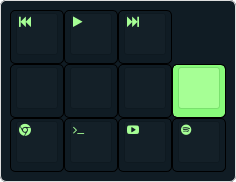
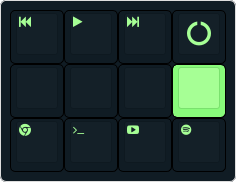
Readme.

diff --git a/README.md b/README.md
@@ -1,6 +1,21 @@
 # SdraKb00
-11 keys custom mechanical keyboard.
+
+11 keys custom mechanical keyboard with rotary encoder.
+
+## Features
+
+- 11 keys
+- rotary encoder
+- AtMega32U4 MCU
+- Per-key RGB led for backlighting
+- USB-C connector
+- On PCB SPI header
+- MCU reset button
 
 ## Layout
 
-[![layout](/img/sdrakb00_layout.png)](http://www.keyboard-layout-editor.com/##@_backcolor=%23101C24&name=SdraKb00&author=drabaioli&switchMount=cherry&switchBrand=gateron&switchType=KS-3-Red&plate:true&pcb:false%3B&@_c=%23101C24&t=%2388FB7A%3B&=%3Ci%20class%2F='fa%20fa-fast-backward'%3E%3C%2F%2Fi%3E&=%3Ci%20class%2F='fa%20fa-play'%3E%3C%2F%2Fi%3E&=%3Ci%20class%2F='fa%20fa-fast-forward'%3E%3C%2F%2Fi%3E%3B&@_a:7%3B&=&=&=&_c=%2388FB7A&t=%23101C24%3B&=%3B&@_c=%23101C24&t=%2388FB7A&a:4%3B&=%3Ci%20class%2F='fa%20fa-chrome'%3E%3C%2F%2Fi%3E&=%3Ci%20class%2F='fa%20fa-terminal'%3E%3C%2F%2Fi%3E&=%3Ci%20class%2F='fa%20fa-youtube-play'%3E%3C%2F%2Fi%3E&=%3Ci%20class%2F='fa%20fa-spotify'%3E%3C%2F%2Fi%3E)
+[![layout](/img/sdrakb00_layout.png)](http://www.keyboard-layout-editor.com/##@_backcolor=%23101C24&name=SdraKb00&author=drabaioli&switchMount=cherry&switchBrand=gateron&switchType=KS-3-Red&plate:true&pcb:false%3B&@_c=%23101C24&t=%2388FB7A%3B&=%3Ci%20class%2F='fa%20fa-fast-backward'%3E%3C%2F%2Fi%3E&=%3Ci%20class%2F='fa%20fa-play'%3E%3C%2F%2Fi%3E&=%3Ci%20class%2F='fa%20fa-fast-forward'%3E%3C%2F%2Fi%3E&_a:7&f:9%3B&=%3Ci%20class%2F='fa%20fa-circle-o-notch'%3E%3C%2F%2Fi%3E%3B&@_f:3%3B&=&=&=&_c=%2388FB7A&t=%23101C24%3B&=%3B&@_c=%23101C24&t=%2388FB7A&a:4%3B&=%3Ci%20class%2F='fa%20fa-chrome'%3E%3C%2F%2Fi%3E&=%3Ci%20class%2F='fa%20fa-terminal'%3E%3C%2F%2Fi%3E&=%3Ci%20class%2F='fa%20fa-youtube-play'%3E%3C%2F%2Fi%3E&=%3Ci%20class%2F='fa%20fa-spotify'%3E%3C%2F%2Fi%3E)
+
+## Schematic
+
+![schematic](/img/schematic.png)
